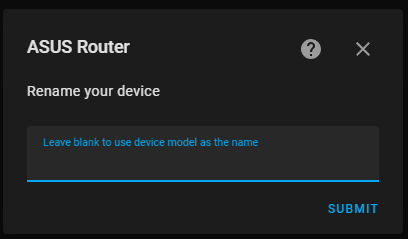
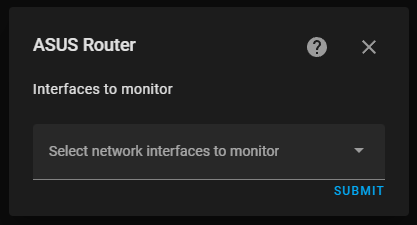
Update setup docs (#77)

diff --git a/docs/setup.md b/docs/setup.md
@@ -4,13 +4,15 @@
 
 The setup process is split into `configuration flow` steps for simplicity. This also allows for better error reporting and easier troubleshooting.
 
+[![Open your Home Assistant instance and start setting up a new integration.](https://my.home-assistant.io/badges/config_flow_start.svg)](https://my.home-assistant.io/redirect/config_flow_start/?domain=asusrouter)
+
 ## #1. Device discovery
 
 **Values:**
 - `hostname` (or IP address of the device).
 
 The first step is device discovery. The integration will check if the device `hostname` can be resolved.
-s
+
 **Possible errors:**
 - `Hostname cannot be resolved`. Reported at `ERROR` level in the log. This problem can be fixed by providing the IP address instead.
 
@@ -55,25 +57,51 @@ This step allows performing a simplified setup. By providing these values, the i
 ## #3. Operation mode
 
 **Values:**
-- `enable monitoring`. Please, keep it `True`, since the `False` functionality is not completely implemented yet and will result in integration failures.
+<!--- `enable monitoring`. Please, keep it `True`, since the `False` functionality is not completely implemented yet and will result in integration failures.-->
 - `enable control` - whether switches, services and more control functions for your device should be enabled in the integration. The default value is `False`.
 
 ![Step #3. Operation mode](Fig-Setup/Step-3.png)
 
-## #4. Network interfaces to monitor (optional)
-
-*This step can be reached only if `enable monitoring` in step **#3** was set to `True`.*
+## #4. Time constants
 
 **Values:**
-- `Interfaces` - which network interfaces should be monitored
+- `cache time` - the amount of time for the [asusrouter](https://github.com/Vaskivskyi/asusrouter) library behind the integration to store obtained data (e.g. some data is obtained in bulk and then split for different sensors in Home Assistant). Thanks to caching, it is possible to decrease the amount of traffic to the device and minimize its response time. The default (and recommended value) is `5` seconds. This time constant should be always lower than the `scan interval` value.
+- `scan interval` - how regularly sensors should be pulled. The default value is `30` seconds. Even though the user may want to decrease it as low as possible, please, note, that older Asus devices (especially single-core ones) cannot handle high traffic well and may become unresponsive. We do not recommend setting this value below `10` seconds.
+- `consider home` - how fast the integration should consider connected devices `not home` after they were last seen. E.g., the default value `45` seconds means that the connected device will not be set as `not home` earlier than 45 seconds. If the user wants to receive a `not home` value as soon as the device goes offline, this value should be lower than the `scan interval`.
+
+For a better understanding of how `consider home` works, here are two examples:
+1. User has `consider home` set to `45` seconds and `scan interval` set to `30`. The last scan happened at 01:00:00 and the device was `online`. The next scan at 01:00:30 has shown the device being `offline`. But we allow 45 seconds, so the integration will leave the state as it was this time. On the next scan at 01:01:00 device is still offline and it is already `60` seconds after the device was last seen. So now it will get state `not home`.
+2. `consider home` set to `7` and `scan interval` set to `10`. In this case, as soon as the next check is performed, the device will receive a `not home` state.
 
 ![Step #4. Network interfaces to monitor](Fig-Setup/Step-4.png)
 
-## #5. Rename device
+## #5. Network interfaces to monitor
+
+**Values:**
+- `interfaces` - which network interfaces should be monitored
+
+![Step #5. Network interfaces to monitor](Fig-Setup/Step-5.png)
+## #6. Rename device
 
 **Values:**
 - `name` - custom device name if user wishes. If left empty, the device model will be used
 
-![Step #5. Rename device](Fig-Setup/Step-5.png)
+![Step #6. Rename device](Fig-Setup/Step-6.png)
+
+# Integration options
+
+Almost all of the configuration settings can be changed after the initial setup. Reconfiguring is done via the `Configure` button on the integrations page.
+
+## Select
+
+The options flow allows the user to select what exactly settings should be changed. User can repeat steps **#2b**, **#3**, **#4**, **#5** of the initial setup. Only the selected steps will be shown.
+
+![Options. Select](Fig-Setup/Step-Options-Select.png)
+
+## Confirm
+
+To apply the new configuration, the user should reload the integration (or the whole Home Assistant, but that is a bit too much). The step is only set to make sure of that.
+
+![Options. Confirm](Fig-Setup/Step-Options-Confirm.png)
 
 
